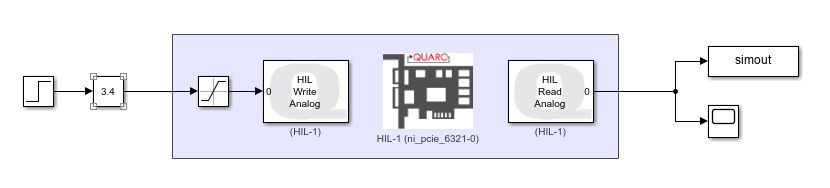
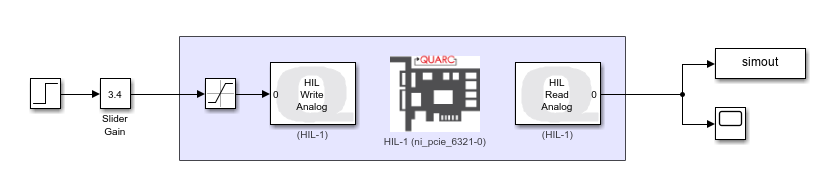
final WR tweaks to prac notes

diff --git a/acs-prac-project.tex b/acs-prac-project.tex
@@ -32,6 +32,8 @@ The project consists of three parts, preceded by setting up the rig:
 \item Part C: Performance evaluation and analysis
 \end{itemize}
 Work in groups of around 2--3 (depending on class size and number of rigs). You will be assessed via a formal group report.
+
+\emph{Once you have formed a group, self-enrol into a Project Group in MyLearning. }
 \end{frame}
 
 \begin{frame}
@@ -53,7 +55,7 @@ Work in groups of around 2--3 (depending on class size and number of rigs). You 
 \begin{column}{0.7\textwidth}
 \vspace{1cm}
 \begin{itemize}
-\item The ping pong rig has one input and one output
+\item \alert{Write down your ping pong rig hardware ID so you can get the same one next time.}
 \item The input is a voltage supplied to a fan mounted on the base of the system to create an airflow to push the ping pong ball up the vertical cylinder
 \item The output is a voltage reading from an ultrasonic proximity sensor placed at the bottom of the tube facing upwards, which will need to be converted into units of distance for control purposes
 \item The ultrasonic sensor is less accurate and noisier than the encoder used in previous practicals, making the rig more of a challenge to control well
@@ -70,49 +72,93 @@ Work in groups of around 2--3 (depending on class size and number of rigs). You 
 \end{columns}
 \end{frame}
 
-
+{\setbeamercolor{background canvas}{bg=yellow!15}
 \begin{frame}{Setting up hardware (CARM)}
 In your group, follow these steps:
 \begin{enumerate}
 	\item Do not connect the rig to the power supply
-	\item Connect the ping pong rig output labelled \textsf{Distance} to channel \textsf{AI 0} on the data acquisition board
-	\item Connect the ping pong rig input labelled \textsf{Fan Input} to channel \textsf{AO 0} on the data acquisition board
+	\item Connect the ping pong rig output labelled \textsf{Ball Distance} to channel \textsf{AI 0} on the data acquisition board
+	\item Connect the ping pong rig input labelled \textsf{Fan Power Input} to channel \textsf{AO 0} on the data acquisition board
 	\item Ensure the gain knob is rotated all the way to the right (minimum gain)
 	\item Connect the rig to the power supply
 \end{enumerate}
 \end{frame}
 
 \begin{frame}{Setting up software (CARM)}
-	Open Simulink and create a blank model. In this project you are going to create your own model for the ping pong rig. Three blocks initialise the hardware and send/receive signals to/from the physical rig:
+	Open the provided Simulink model:
+	
+	\centerline{\includegraphics[width=\linewidth]{ping_pong_CARM.png}}
+	
+	Three blocks initialise the hardware and send/receive signals to/from the physical rig:
 	\begin{itemize}
 		\item \textsf{HIL Initialize}: hardware initialisation
 		\item \textsf{HIL Read Analog}: receive analogue signal (voltage)
 		\item \textsf{HIL Write Analog}: send analogue signal (voltage)
 	\end{itemize}
-	Find these three blocks in the \textsf{Library Browser} and drag them into your model. Double-click the \textsf{HIL Read/Write} blocks and ensure channel 0 is selected. Double-click \textsf{HIL Initialize} and choose the \textsf{PCIE 6321} board under the \textsf{Board Type} section.
 
-	% TODO: confirm the exact option names in HIL Initialize > Analog Outputs at the rig
-	The fan holds the last voltage it was sent when the model stops. So that it switches off at the end of each run, also set the final output voltage (applied when the model terminates) to \qty{0}{V} in the \textsf{Analog Outputs} settings of \textsf{HIL Initialize}.
+  These blocks are set up to interface with the NI PCIe 6321 I/O board in the PC, selecting analogue input 0 and analogue output 0, and ensure the output is reset to \qty{0}{V} after a run is terminated.
+\end{frame}
+}
+
+{\setbeamercolor{background canvas}{bg=green!15}
+\begin{frame}{Setting up hardware (MyRIO)}
+In your group, follow these steps:
+\begin{enumerate}
+	\item Do not connect the rig to the power supply
+	\item Connect the ping pong rig output labelled \textsf{Distance} to screw terminals \texttt{AI 0+} and \texttt{AI 0-} on the MyRIO
+	\item Connect the ping pong rig input labelled \textsf{Fan Input} to screw terminals \texttt{AO AGND} and \texttt{AO 0} on the MyRIO
+	\item Ensure the gain knob is rotated all the way to the right (minimum gain)
+	\item Connect the rig to the power supply (\qty{24}{V})
+\end{enumerate}
 \end{frame}
 
-\begin{frame}{Setting up software}
-	Select the three blocks, then right-click and select \textsf{Create Subsystem from Selection}. This is now your ping pong plant, which has an input and an output; you can label them as shown below.
+\begin{frame}{Setting up software (MyRIO)}
+	Open the provided Simulink model:
+	
+	\centerline{\includegraphics[width=\linewidth]{ping_pong_MyRIO.png}}
+	
+	Three blocks initialise the hardware and send/receive signals to/from the physical rig:
+	\begin{itemize}
+		\item \textsf{HIL Initialize}: hardware initialisation
+		\item \textsf{HIL Read Analog}: receive analogue signal (voltage)
+		\item \textsf{HIL Write Analog}: send analogue signal (voltage)
+	\end{itemize}
 
-	The \textsf{To Workspace} block exports the sensor data to MATLAB. Set up the \textsf{Step} block with a step time of \texttt{0} and a final value between \qty{1}{V} and \qty{10}{V}, then run the model. You may need to increase the input voltage to increase the upward force provided by the fan.
+  These blocks are set up to interface with the MyRIO controller, selecting analogue input 0 and analogue output 0, and ensure the output is reset to \qty{0}{V} after a run is terminated.
+\end{frame}
+}
 
-\begin{figure}
+
+\begin{frame}{Simulink model notes}
+
+  \begin{itemize}
+  \item The fixed step size (sample time) for the model is set to \qty{0.01}{s}. This shouldn't need to be adjusted (but worth checking).
+  
+  \item
+  The Simulink model includes a saturation block to ensure no control signal is ever requested that exceeds the capacity of the voltage output of the system.
+  
+  \item
+  The step input is set to \qty{1}{V} at \qty{0}{s} in series with a Slider Gain. The Slider Gain allows you to manually adjust the voltage to get a feel for how the fan behaves and interacts with the ping pong ball. 
+
+  \item
+	To simplify your model going forwards, select the highlighted area, then right-click and select \textsf{Create Subsystem from Selection}. This is now your ping pong plant, which has an input and an output; you can label them as shown below:
+
 	\centering
-	\includegraphics[width=10cm]{project_subsystem}
-\end{figure}
+	\includegraphics[clip,trim=100 0 200 0,height=3cm]{project_subsystem}
+	\end{itemize}
 \end{frame}
 
 
-\begin{frame}{Running the system}
-	To run on hardware go to \textsf{Modelling} $\to$ \textsf{Model Settings} $\to$ \textsf{Code Generation} $\to$ \textsf{Browse} and choose \texttt{quarc\_win64.tlc}; the \textsf{Hardware} tab should now appear.
+\begin{frame}{Running the system and logging data}
+	
+	\begin{itemize}
+	\item When investigating and tuning the system, you likely want to keep the \textsf{Stop Time} set to \texttt{Inf}. Remember you can use manual switches, slider gains, and scopes to monitor and tune the system in real time.
+	
+	\item Quarc runs the model in Simulink External Mode, whose data buffer holds 1000 samples per run by default, so when logging data to calculate indentification parameters or to create plots for reporting, with a step size of \qty{0.01}{s} set the \textsf{Stop Time} to (at most) \qty{9.99}{s}
+	
+	\item We recommend creating copies of your block diagram rather than continuously iterating the same model. This will make it easy to flip back and forth between open/closed loop, continuous/short runs, different tuning approaches, etc.
+	\end{itemize}
 
-	The \textsf{To Workspace} block may lose data points while the model is running. To prevent this, go to \textsf{Modelling} $\to$ \textsf{Model Settings} $\to$ \textsf{Solver} $\to$ \textsf{Solver details} and set the fixed-step size to \qty{0.01}{s}. Quarc runs the model in Simulink External Mode, whose data buffer holds 1000 samples per run by default, so with this step size set the \textsf{Stop Time} to \qty{9.99}{s}.
-
-	Try running the system to get the ping pong ball to lift into the tube by adding a step input to the system. You may have to play around with the input voltage to get the ball to lift.
 \end{frame}
 
 \SUBCONCEPT{Part A: System identification and modelling}
